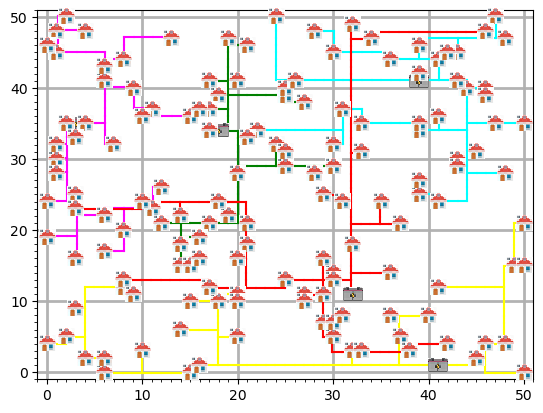
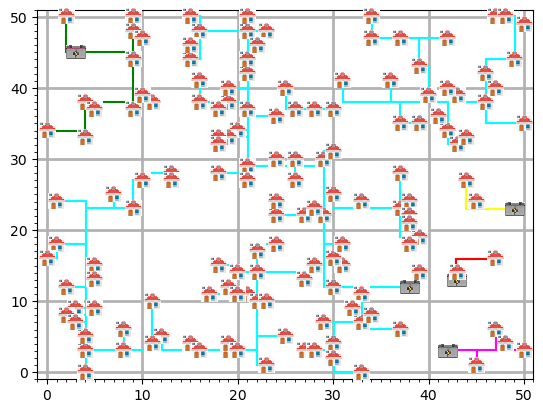
Algoritme 3 klopt

Changed region(s): [[0.0589, 0.0, 1.0, 0.9298]]

diff --git a/algorithms/best_dist.py b/algorithms/best_dist.py
@@ -1,0 +1,88 @@
+from algorithms.randomize import randomize_objects
+
+def find_best_battery(batterijen, huis):
+    """
+    Zoekt de verste batterij voor een gegeven huis, waarbij de output niet uitmaakt
+    """
+    optimale_index = 0
+    min_afstand = 101
+
+    for index, batterij in enumerate(batterijen):
+        try:
+            afstand_batterij = huis.distance(batterij)
+
+            if afstand_batterij < min_afstand:
+                optimale_index = index
+                min_afstand = afstand_batterij
+
+        except IndexError:
+            pass
+
+    return batterijen[optimale_index]
+
+
+def best_dist_no_capacity_restrictions(grid):
+    """
+    Algoritme die de slechtse batterij voor een huis linkt
+    """
+    huizen = grid.get_huizen()
+    batterijen = grid.get_batterijen()
+    for huis in huizen:
+        batterij = find_best_battery(batterijen, huis)
+        batterij.lay_cable_to_house(huis)
+
+def best_dist_no_cap_shared_cable(grid):
+    """
+    Algoritme die ook naar bestaande gelegde kabels kijkt, en de de kabel/batterij kiest met minste afstand
+    """
+    huizen = grid.get_huizen()
+    batterijen = grid.get_batterijen()
+
+    randomize_objects(huizen, batterijen)
+
+    # Voor huis in huizen
+    for huis in huizen:
+
+        # Zoek de dichtsbijzijndste batterij
+        batterij = find_best_battery(batterijen, huis)
+
+        # Bereken de afstand tussen de beste batterij en huis
+        afstand_batterij = huis.distance(batterij)
+
+        # Base-line afstand kabel (Upper-bound)
+        beste_afstand_kabel = 1000000
+
+        # Declaratie beste kabel
+        beste_kabel = tuple
+
+        # Loop door de batterijen array
+        for b in batterijen:
+
+            # Pak de unieke kabels die aan de batterij is aangesloten
+            kabels = b.get_unieke_kabels()
+
+            # Loop door deze unieke kabels
+            for k in kabels:
+                afstand_kabel = huis.distance(k)
+
+                # Als de afstand van de kabel beter is dan de beste afstand die geconstateerd is
+                if afstand_kabel < beste_afstand_kabel:
+                    # Zet dan dan deze kabel als de beste
+                    beste_afstand_kabel = afstand_kabel
+
+                    # Onthoud de tuple/locatie van deze kabel
+                    beste_kabel = k
+
+                    # Onthoud van welke batterij deze kabel komt
+                    batterij_kabel = b
+
+        # Als de afstand van deze kabel dichterbijer ligt dan de afstand van de dichtsbijzijnste batterij
+        if beste_afstand_kabel < afstand_batterij:
+            batterij_kabel.set_huis(huis)
+
+            # Leg kabel vanuit huis naar deze dichtsbijzijndste kabel
+            huis.lay_cable_to_cable(beste_kabel, batterij_kabel)
+
+        # Anders sluit aan de dichtsbijzijnste batterij
+        else:
+            batterij.lay_cable_to_house(huis)

diff --git a/algorithms/worst_dist.py b/algorithms/worst_dist.py
@@ -1,0 +1,90 @@
+from .randomize import randomize_objects
+
+def find_worst_battery(batterijen, huis):
+    """
+    Zoekt de verste batterij voor een gegeven huis, waarbij de output niet uitmaakt
+    """
+    slechtste_index = 0
+    max_afstand = 0
+
+    for index, batterij in enumerate(batterijen):
+        try:
+            afstand_batterij = huis.distance(batterij)
+
+            if afstand_batterij > max_afstand:
+                slechtste_index = index
+                max_afstand = afstand_batterij
+
+        except IndexError:
+            pass
+
+    return batterijen[slechtste_index]
+
+
+def worst_dist_no_capacity_restrictions(grid):
+    """
+    Algoritme die de slechtse batterij voor een huis linkt
+    """
+    huizen = grid.get_huizen()
+    batterijen = grid.get_batterijen()
+    for huis in huizen:
+        batterij = find_worst_battery(batterijen, huis)
+        batterij.lay_cable_to_house(huis)
+
+
+def worst_dist_no_cap_shared_cable(grid):
+    """
+    Algoritme die ook naar bestaande gelegde kabels kijkt, en de de kabel/batterij kiest met minste afstand
+    """
+    huizen = grid.get_huizen()
+    batterijen = grid.get_batterijen()
+
+    randomize_objects(huizen, batterijen)
+
+    # Voor huis in huizen
+    for huis in huizen:
+
+        # Zoek de slechtste batterij
+        batterij = find_worst_battery(batterijen, huis)
+
+        # Bereken de afstand tussen de slechtste batterij en huis
+        afstand_batterij = huis.distance(batterij)
+
+        # Base-line afstand kabel (Upper-bound)
+        slechtste_afstand_kabel = 0
+
+        # Declaratie slechtste kabel
+        slechtste_kabel = tuple
+
+        # Loop door de batterijen array
+        for b in batterijen:
+
+            # Pak de unieke kabels die aan de batterij is aangesloten
+            kabels = b.get_unieke_kabels()
+
+            # Loop door deze unieke kabels
+            for k in kabels:
+                afstand_kabel = huis.distance(k)
+
+                # Als de afstand van de kabel meer is dan de slechtste afstand die geconstateerd is
+                if afstand_kabel > slechtste_afstand_kabel:
+
+                    # Zet dan dan deze kabel als de slechtste
+                    slechtste_afstand_kabel = afstand_kabel
+
+                    # Onthoud de tuple/locatie van deze kabel
+                    slechtste_kabel = k
+
+                    # Onthoud van welke batterij deze kabel komt
+                    batterij_kabel = b
+
+        # Als de afstand van deze kabel verder ligt dan de afstand van de verste batterij
+        if slechtste_afstand_kabel > afstand_batterij:
+            batterij_kabel.set_huis(huis)
+
+            # Leg kabel vanuit huis naar deze verste kabel
+            huis.lay_cable_to_cable(slechtste_kabel, batterij_kabel)
+
+        # Anders sluit aan de verste batterij
+        else:
+            batterij.lay_cable_to_house(huis)

diff --git a/tests/test.py b/tests/test.py
@@ -12,9 +12,9 @@ sys.path.append(root_path)
 from models.Grid import Grid
 from algorithms.randomize_dist_cap import dist_cap_algorithm
 from algorithms.randomize_cable_dist_cap import rand_cable_dist_cap
-from algorithms.randomize import rand_algorithm, rand_one_to_one_algorithm
-from algorithms.worst_dist_no_capacity_restrictions import worst_dist
-from algorithms.best_dist_no_capacity_restrictions import best_dist
+from algorithms.randomize import rand_one_to_one_algorithm
+from algorithms.worst_dist import worst_dist_no_capacity_restrictions
+from algorithms.best_dist import best_dist_no_capacity_restrictions, best_dist_no_cap_shared_cable
 from visualisation.plot_grid import draw
 
 # Main functie
@@ -34,7 +34,7 @@ def main():
 
     sys_algorithm = sys.argv[2]
 
-    if sys_algorithm not in ['1', '2', '3', '4', '5']:
+    if sys_algorithm not in ['1', '2', '3', '4', '5', '6']:
         print("No such algorithm!")
         exit(1)
 
@@ -50,12 +50,19 @@ def main():
         print("Shared must be 0 or 1")
         exit(1)
 
-    algorithms = {'1': rand_one_to_one_algorithm, '2': dist_cap_algorithm, '3': rand_cable_dist_cap, '4': worst_dist, '5': best_dist}
+    algorithms = {
+        '1': rand_one_to_one_algorithm,
+        '2': dist_cap_algorithm,
+        '3': rand_cable_dist_cap,
+        '4': worst_dist_no_capacity_restrictions,
+        '5': best_dist_no_capacity_restrictions,
+        '6': best_dist_no_cap_shared_cable
+    }
     algorithm = algorithms[sys_algorithm]
 
     """Algoritme kosten en run-time test, om de slechtste kosten en run-time in x pogingen te vinden"""
 
-    Shared = True if shared_arg == '1' else False
+    shared = True if shared_arg == '1' else False
 
     # Base-line worst-case, best-case
     slechtste_prijs = 0
@@ -68,7 +75,7 @@ def main():
     for poging in range(pogingen):
         grid = Grid(wijk, f"{root_path}/data/wijk{wijk}_huizen.csv", f"{root_path}/data/wijk{wijk}_batterijen.csv")
 
-        prijsbepaling = grid.get_unieke_total_prijs if Shared else grid.get_totale_prijs
+        prijsbepaling = grid.get_unieke_total_prijs if shared else grid.get_totale_prijs
         algorithm(grid)
 
         eind_prijs = prijsbepaling()

diff --git a/main.py b/main.py
@@ -2,9 +2,13 @@
 import sys
 
 # Importeer grid, algoritmes en visualisatie
+# Importeer grid, algoritmes en visualisatie
 from models.Grid import Grid
 from algorithms.randomize_dist_cap import dist_cap_algorithm
-from algorithms.randomize import rand_algorithm, rand_one_to_one_algorithm
+from algorithms.randomize_cable_dist_cap import rand_cable_dist_cap
+from algorithms.randomize import rand_one_to_one_algorithm
+from algorithms.worst_dist import worst_dist_no_capacity_restrictions
+from algorithms.best_dist import best_dist_no_capacity_restrictions, best_dist_no_cap_shared_cable
 from visualisation.plot_grid import draw
 import os
 import sys
@@ -35,18 +39,13 @@ def main():
         print("No such algorithm!")
         exit(1)
 
-    algorithms = {'1': dist_cap_algorithm, '2': rand_one_to_one_algorithm, '3': rand_algorithm}
+    algorithms = {'1': dist_cap_algorithm, '2': rand_one_to_one_algorithm}
     algorithm = algorithms[sys_algorithm]
 
     grid = Grid(wijk, f"{root_path}/data/wijk{wijk}_huizen.csv", f"{root_path}/data/wijk{wijk}_batterijen.csv")
 
     # Voer algoritme op grid uit
     algorithm(grid)
-
-    # count = 0
-    # for batterij in grid.get_batterijen():
-    #     for kabel in batterij.get_unieke_kabels():
-    #         count += 1
 
     # Teken grid
     draw(grid)

diff --git a/algorithms/randomize.py b/algorithms/randomize.py
@@ -8,20 +8,6 @@ def randomize_objects(huizen, batterijen):
     shuffle(huizen)
     shuffle(batterijen)
 
-def rand_algorithm(grid):
-    """
-    Algoritme die 'random' de huizen aan een batterij aansluit, waarbij er geen restricties zijn
-    """
-    huizen = grid.get_huizen()
-    batterijen = grid.get_batterijen()
-    randomize_objects(huizen, batterijen)
-
-    # Sluit alles random aan tot alle huizen aangesloten zijn
-    while grid.is_everything_connected() is False:
-        huis = choice(huizen)
-        batterij = choice(batterijen)
-        batterij.lay_cable_to_house(huis)
-
 def rand_one_to_one_algorithm(grid):
     """
     Algoritme die 'random' de huizen één op één aan een batterij aansluit
